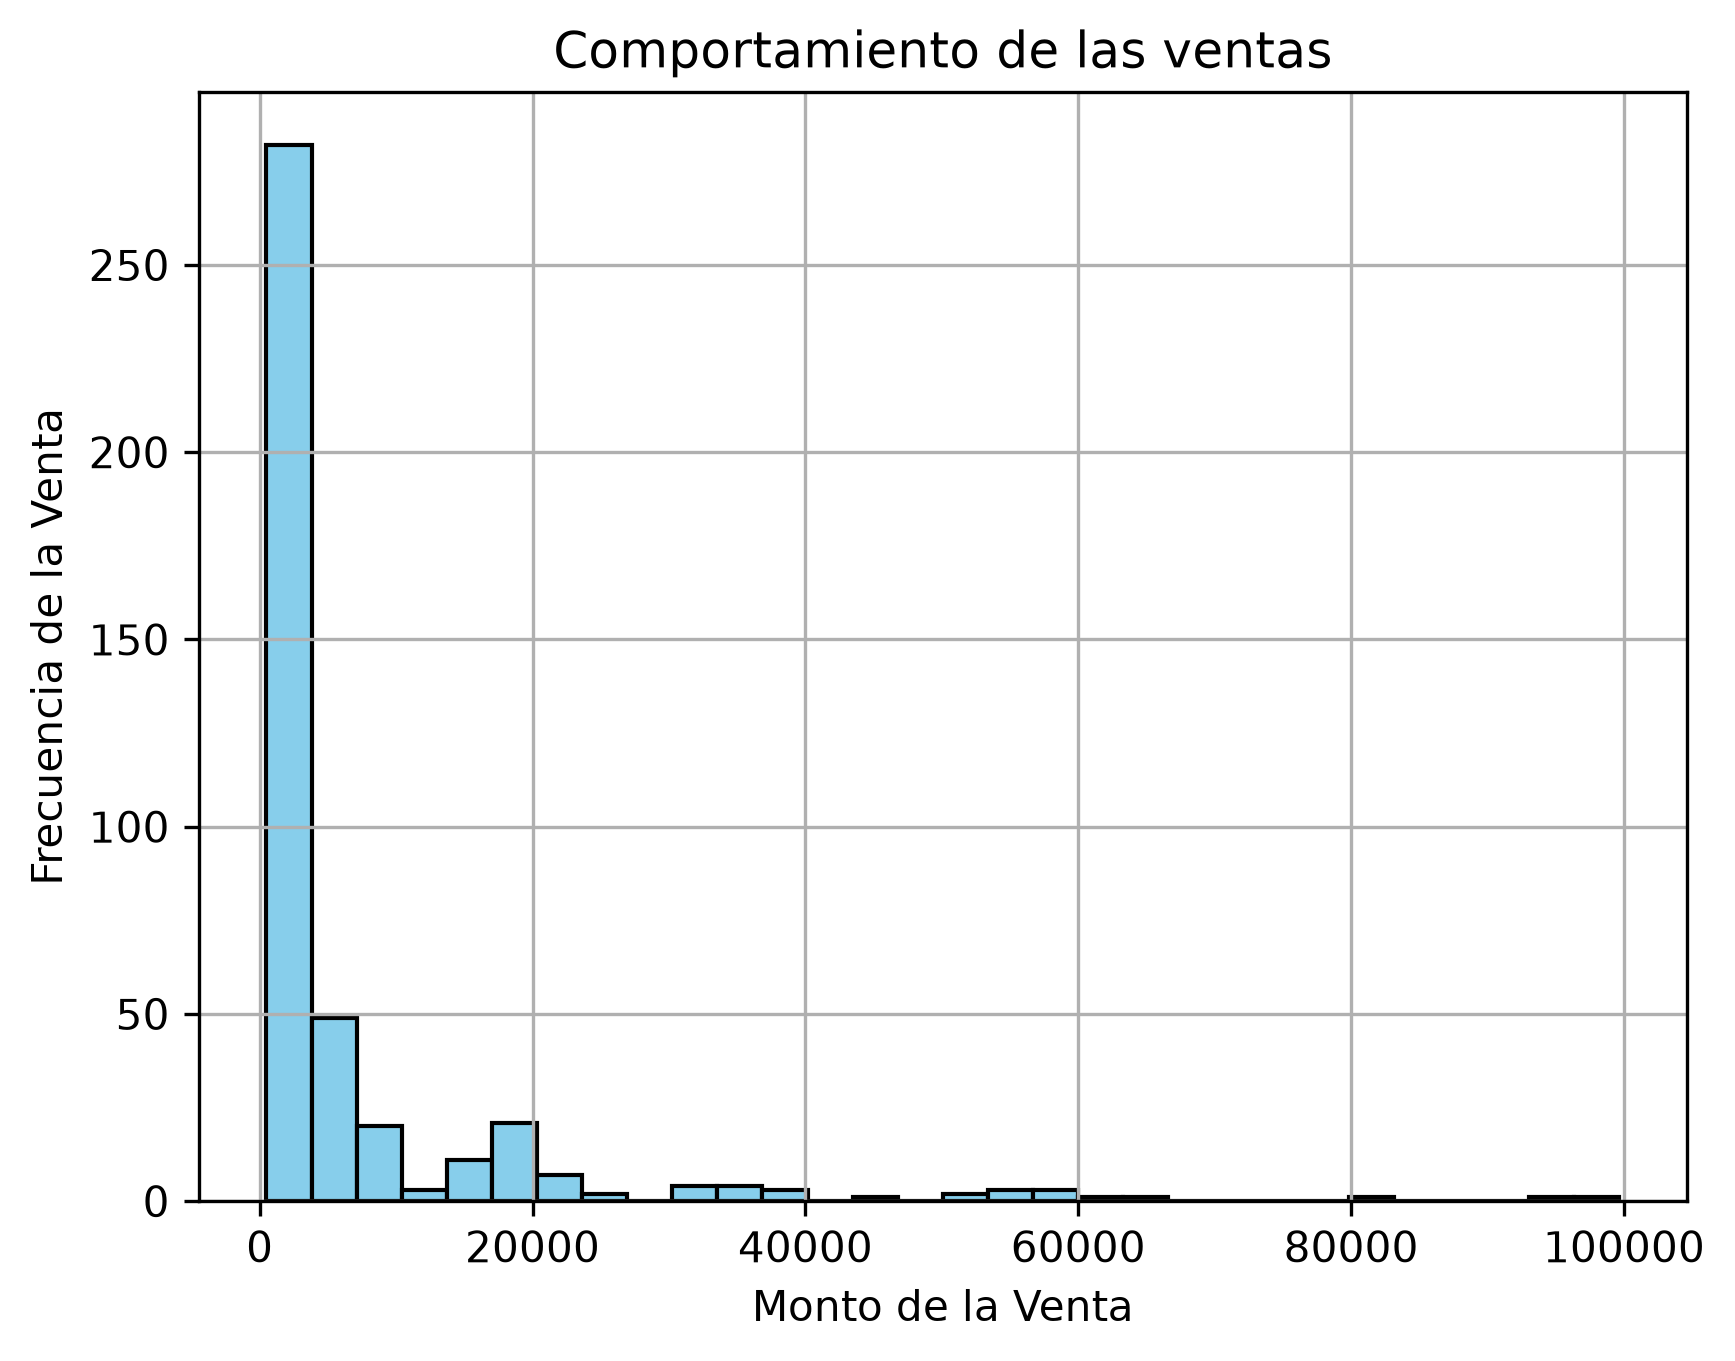
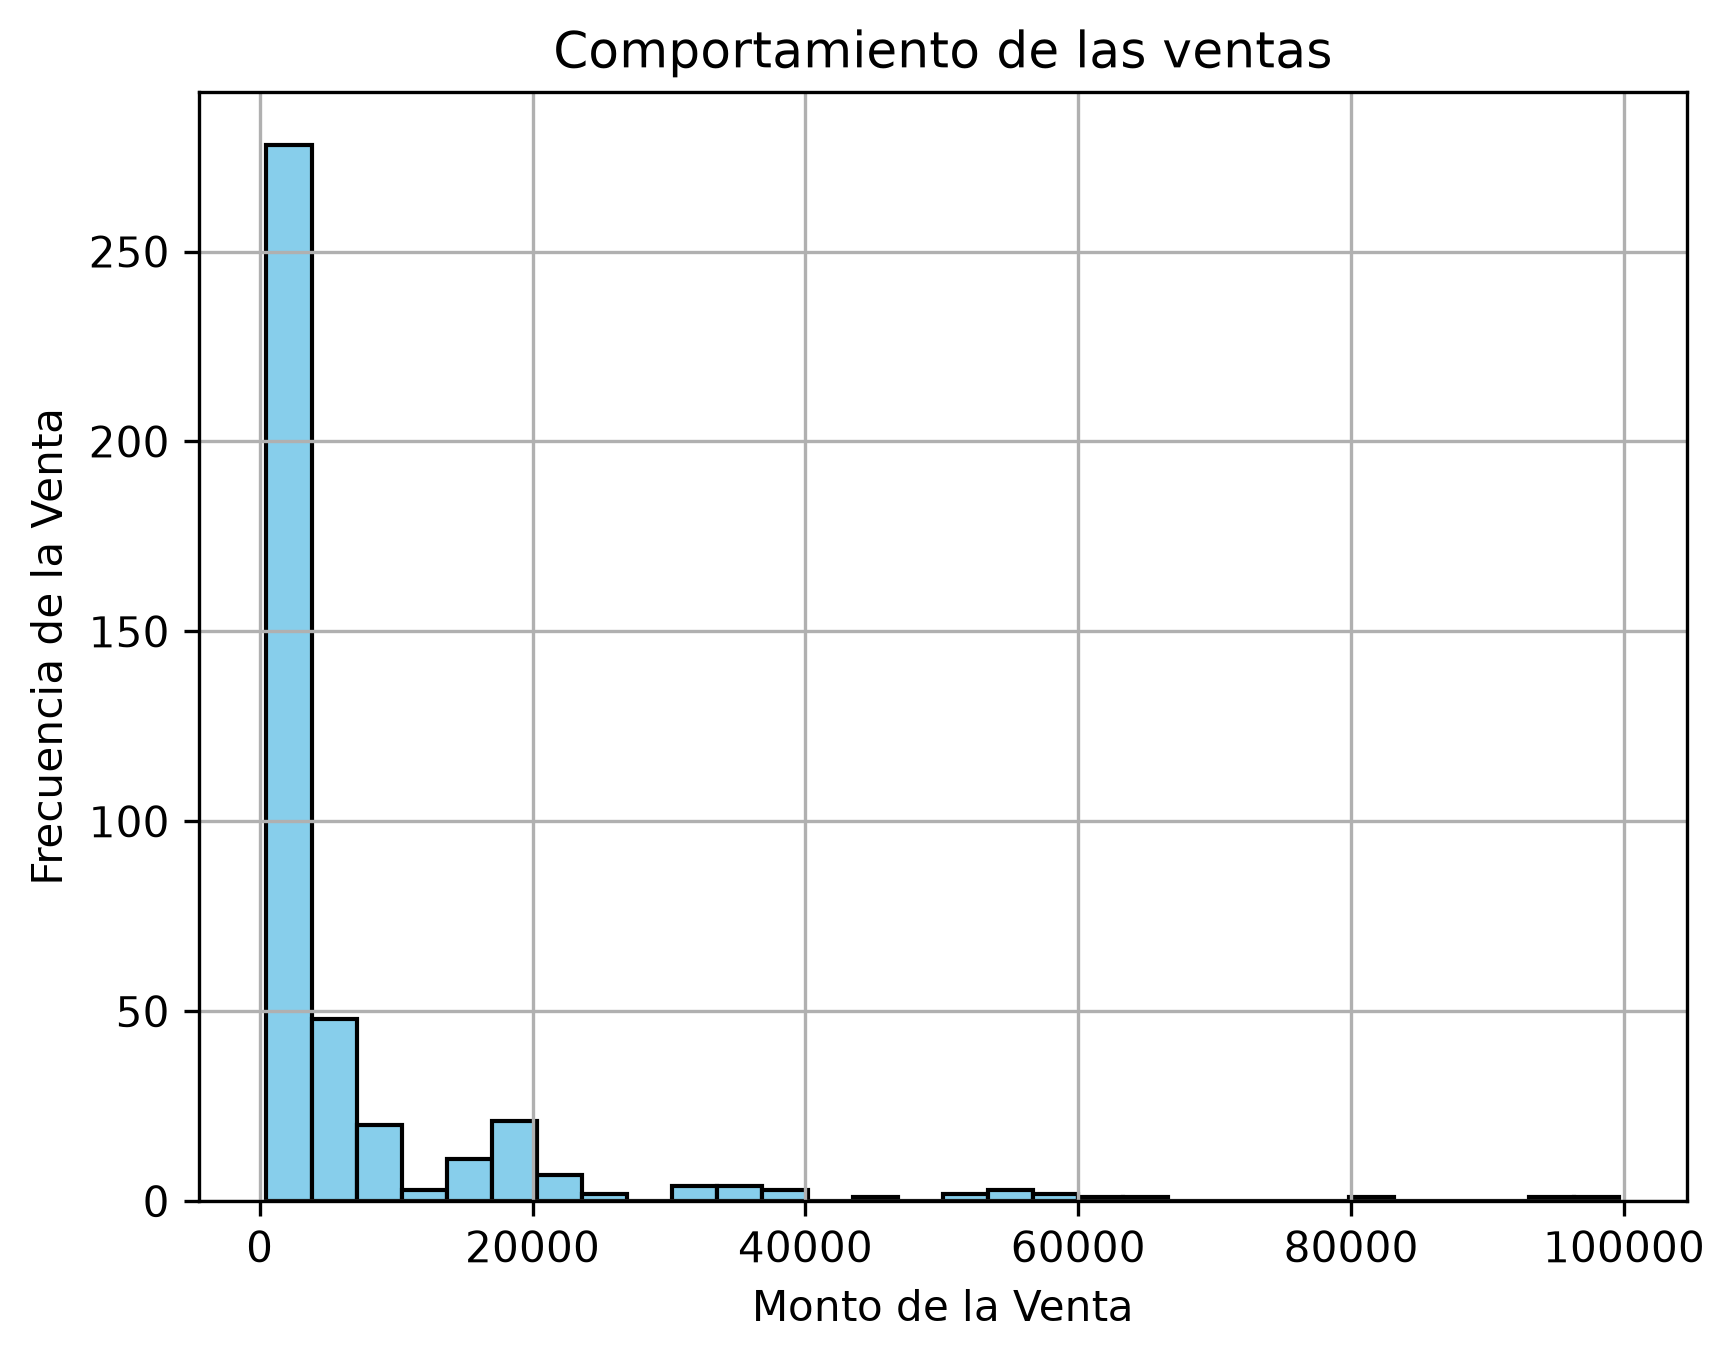
Se hicieron ajustes nuevos, y se llego a la conclusión de que el modelo sobra en el analisis de esta tabla especificamente.

diff --git a/Machine_Learning/Semana_2_ML/dia7AnalisisVentas/src/services/analizadorDatos.py b/Machine_Learning/Semana_2_ML/dia7AnalisisVentas/src/services/analizadorDatos.py
@@ -50,31 +50,30 @@ def limpiezaDatos(tablaDatos):
       
    tablaDatos["Cantidad"] =  pd.to_numeric(tablaDatos["Cantidad"], errors= "coerce")
    tablaDatos["Cantidad"] = tablaDatos["Cantidad"].abs()
-   medianaCant = np.nanmedian(tablaDatos["Cantidad"])
-   tablaDatos["Cantidad"] = tablaDatos["Cantidad"].fillna(medianaCant)
+   tablaDatos = tablaDatos.dropna(subset=["Cantidad"])
+
+   print(tablaDatos[tablaDatos["Cantidad"] < 0])
    
    # ----------- Precio_Unitario -----------------------------------------------
       
    tablaDatos["Precio_Unitario"] = pd.to_numeric(tablaDatos["Precio_Unitario"], errors= "coerce")
+   tablaDatos = tablaDatos.dropna(subset=["Precio_Unitario"])
    tablaDatos["Precio_Unitario"] = tablaDatos["Precio_Unitario"].abs()
-   medianaPrecio = np.nanmedian(tablaDatos["Precio_Unitario"])
-   tablaDatos["Precio_Unitario"] = tablaDatos["Precio_Unitario"].fillna(medianaPrecio)
 
 
    # ----------- Descuento -----------------------------------------------
       
    tablaDatos["Descuento"] = pd.to_numeric(tablaDatos["Descuento"], errors="coerce")
-   tablaDatos["Descuento"] = tablaDatos["Descuento"].abs()
-   medianaDes = np.nanmedian(tablaDatos["Descuento"])
-   tablaDatos.loc[tablaDatos["Descuento"] > 1, "Descuento"] = medianaDes
-   tablaDatos["Descuento"] = tablaDatos["Descuento"].fillna(medianaDes)
+   tablaDatos = tablaDatos.dropna(subset=["Descuento"])
+ 
+
    
    # ----------- Ventas -----------------------------------------------
       
    tablaDatos["Ventas"] = pd.to_numeric(tablaDatos["Ventas"], errors="coerce")
+   tablaDatos = tablaDatos.dropna(subset=["Ventas"])
    tablaDatos["Ventas"] = tablaDatos["Ventas"].abs()
-   medianaVent = np.nanmedian(tablaDatos["Ventas"])
-   tablaDatos["Ventas"] = tablaDatos["Ventas"].fillna(medianaVent)
+   
 
    # ----------- SubTotal -----------------------------------------------
    tablaDatos["SubTotal"] = tablaDatos["Cantidad"] * tablaDatos["Precio_Unitario"]

diff --git a/Machine_Learning/Semana_2_ML/dia7AnalisisVentas/main.py b/Machine_Learning/Semana_2_ML/dia7AnalisisVentas/main.py
@@ -1,7 +1,7 @@
 
 from src.services.analizadorDatos import paraDataFrame, limpiezaDatos, primerasFilas, dimension, infoTabla, resumenEstadistico, histogramaDeVentas
 from src.services.analizadorGrafico import realVSpredicho, graficaResiduos
-from src.services.analizadorModelo import preparaciónTrainyTest, separacionDatos, generacionModelo, entrenamiento, coef_intercepto, prediccion, analisisGeneral
+from src.services.analizadorModelo import preparaciónTrainyTest, separacionDatos, generacionModelo, entrenamiento, coef_intercepto, prediccion, analisisGeneral, escalaciónDatos
 from pathlib import Path
 import pandas as pd
 import time 
@@ -27,10 +27,9 @@ def main():
 
     #Creación y limpieza de la tabla
     tabla = paraDataFrame(csv_pathDos)
-    print(tabla)
+    #print(tabla)
     
     tabla = limpiezaDatos(tabla)
-    print(set(tabla))
 
     #Analisis de datos de la tabla 
     primerasFilas(tabla)
@@ -39,15 +38,17 @@ def main():
     resumenEstadistico(tabla)
     histogramaDeVentas(tabla)
 
-    ventasAltas = tabla[tabla["Ventas"] >= 5000]
+    #tabla = tabla[tabla["Ventas"] <= 5000]
 
-    print(f"Imprimimos las ventas altas(outliners): \n {ventasAltas}")
+    #print(f"Imprimimos las ventas altas(outliners): \n {ventasAltas}")
 
     #Separamos en los datos de entrenamiento(features) y el target
     X, y  = separacionDatos(tabla)
 
     #Separamos para features de entrenamiento y prueba así como target de entrenamiento y prueba. 
     X_train, X_test, y_train, y_test = preparaciónTrainyTest(X, y)
+
+    X_train, X_test = escalaciónDatos(X_train, X_test)
 
     #Instancia del modelo 
     modelo = generacionModelo()

diff --git a/Machine_Learning/Semana_2_ML/dia7AnalisisVentas/src/services/analizadorModelo.py b/Machine_Learning/Semana_2_ML/dia7AnalisisVentas/src/services/analizadorModelo.py
@@ -1,5 +1,6 @@
 from sklearn.model_selection import train_test_split #Divide X y "y" para ejecución y test 
 from sklearn.linear_model import LinearRegression #Modelo de Regression
+from sklearn.preprocessing import  StandardScaler 
 #nos permite hacer un analisis del modelo 
 from sklearn.metrics import (r2_score, mean_squared_error, mean_absolute_error)
 from math import sqrt
@@ -22,6 +23,13 @@ def preparaciónTrainyTest(X, y):
     #X_train, X_test, y_train, y_test
     logger.info("Separación de datos para el entrenamiento y la prueba.")
     return train_test_split(X, y, test_size=0.4, random_state=42)
+
+def escalaciónDatos(X_train, X_test): 
+   escalador = StandardScaler()
+
+   X_train = escalador.fit_transform(X_train)
+   X_test = escalador.transform(X_test)
+   return X_train, X_test
 
 def generacionModelo():
     logger.info("Creación de la instancia del modelo de regresion")
